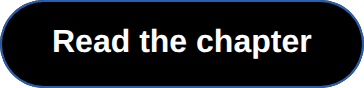
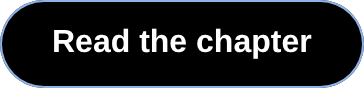
Email headings and outlines: lighter blue so they can be read on black
Claude-Session: https://claude.ai/code/session_012sgkdGHz3nphrr6PkVVVwg

Changed region(s): [[0.1209, 0.3182, 0.8764, 0.6818], [0.0, 0.0, 1.0, 1.0]]

diff --git a/docs/DECISIONS.md b/docs/DECISIONS.md
@@ -588,6 +588,7 @@ docs/LAUNCH.md. Ken's full words are in the transcript at `/root/.claude/project
 - 10 Nov (share everywhere, desktop sharing, verses on the back) · Ken: share up front and from the three dots ("catch a fish and share it", random or chosen); skip to the end in Listen and Read; desktop Text it showed a "Pick an app" box and Email it did nothing; asked about entering a phone number and trying carriers; verses on the back of the card in Read should open like Listen (the verse in context, highlighted). Done in `index.html` (`shareRender`, `MFcatch`, `#shBtn`, `#dgSkip`, `openReader` with `.far` verses and `#rAll`), `bible/index.html` (menu item), `netlify/functions/catch-list.mjs`. Carrier guessing NOT built: email-to-text gateways are unreliable and being shut down, can text the wrong people and look like spam; texting a typed number should wait for Twilio (its Lookup finds the carrier by itself).
 - 10 Nov (redraw the Spanish Repair fish, files for StickerApp) · Ken: "Redraw the Spanish Repair fish and give me the download files again so I can upload them to StickerApp and get this quoted." The old Spanish fish had "(RVR1909) (KJV)" on the tail (the engine adds " (KJV)" unless told otherwise). `fishdraw.mjs` now takes `tag`; `print/assets/repair-fish-ES-DRAFT.svg` redrawn with `tools/print/draw-custom.mjs`; R0009/R0013 rebuilt, header card R0013, flip images and the Spanish zip refreshed.
 - 10 Nov (push it live) · Ken: "push it live" after adding BREVO_API_KEY, MF_SEND_OFF, MF_PREVIEW_KEY, OPENAI_API_KEY on the manna-fish.com Netlify site (not seen by Claude). `main` and `test-site` had unrelated histories, so main got a merge (`-s ours --allow-unrelated-histories`) of test-site: content = test-site, old shop history kept. Pushed b4e8eef6 to main. Could not check the live site from the session (proxy blocks manna-fish.com).
+- 11 Nov (dark blue text in the email) · Ken (welcome email screenshot): "any text on the page that's in dark blue is barely seen". Heading pictures and button outlines in the email were #2a5fb0 on black; changed to #8fb3e8 and regenerated `w/img/email/*.png` (the maker now loads Playwright through createRequire). Site pages were not changed; ask Ken if other dark-blue text shows on the site.
 ---
 
 ## E. GOTCHAS AND FIXES

diff --git a/docs/NOW.md b/docs/NOW.md
@@ -4,6 +4,7 @@ Updated 9 Nov 2026. Claude updates this at the end of every job, without being a
 Test site: https://yadamannafishtest.netlify.app/ (branch `test-site`). Live site manna-fish.com is the old decal shop page on `main` until Ken says "push it live".
 
 ## Just finished (9 Nov)
+- Email text was too dark (Ken, 11 Nov, welcome email on his phone): the blue headings and button outlines in the daily/welcome email are now a lighter blue (#8fb3e8) on black (`tools/email-img/make.mjs`, pictures in `w/img/email/`, alt colours in `devo.mjs`). Brevo sender 2fish@manna-fish.com is verified with DKIM and DMARC; the welcome email arrived. Still to confirm: that a link in an email opens MannaFish (the old Google 404 on r.em.manna-fish.com).
 - PUSHED LIVE 10 Nov (Ken: "push it live"): `main` now holds the app (merge commit b4e8eef6; main's old decal-shop history is kept, content is test-site's). manna-fish.com should show the Coming soon gate; Ken gets in with `https://manna-fish.com/?preview=<his MF_PREVIEW_KEY>`. NOT verified: this session cannot reach manna-fish.com (network blocked) and cannot see Netlify's deploy. Live settings Ken says are saved: BREVO_API_KEY, MF_SEND_OFF=1, MF_PREVIEW_KEY, OPENAI_API_KEY. Next: Ken checks the live site on his phone; Brevo verified sender; Twilio; open to the public with MF_LAUNCHED=1 and remove MF_SEND_OFF. Later live updates need "push it live" again (same merge into main).
 - Go-live settings (Ken, 10 Nov): Brevo key made and added to the manna-fish.com Netlify site (his word, not seen). Still to add there: `MF_PREVIEW_KEY`, `MF_SEND_OFF`=1, `OPENAI_API_KEY`. `ELEVENLABS_API_KEY` is NOT needed: Ken (6 Nov) was not impressed with the ElevenLabs voices and picked OpenAI voices; the site works without it. Next: Brevo verified sender.
 - Spanish Repair fish redrawn (Ken, 10 Nov) with the site's own engine: tail now reads "2 Reyes 12:5 (RVR1909)" (no stray KJV). New helper `tools/print/draw-custom.mjs`; `fishdraw.mjs` accepts a `tag`. Market Street Spanish cards (R0009, R0013), header card and `/flip/` rebuilt; files in `docs/crm-handoff/HIGHRES/2-Market-Street-Tires-ESPANOL.zip`. Ken uploads the PRINT-FILES zip to StickerApp for the quote.
